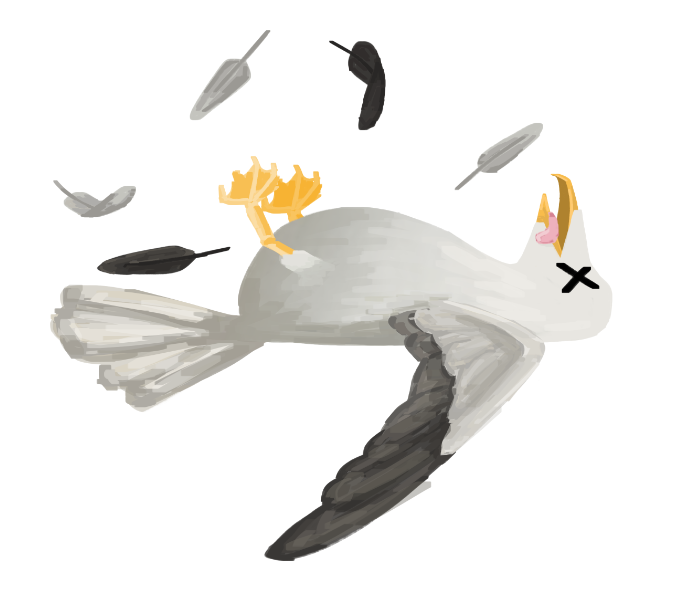
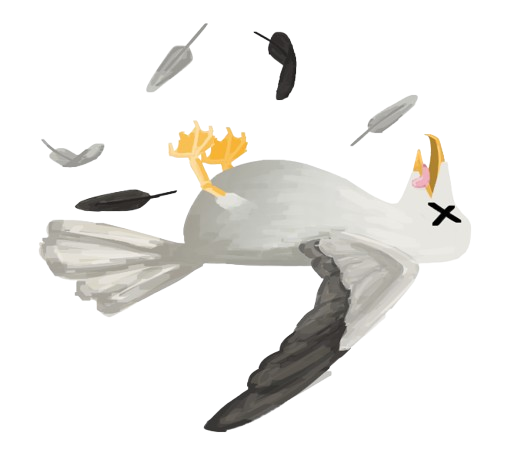
style changes
- transparent image
- white text
- text size

diff --git a/siths-redesign/src/views/404.vue b/siths-redesign/src/views/404.vue
@@ -1,17 +1,17 @@
 <template>
   <div class="bg-transparent">
-    <main class="grid min-h-full place-items-center bg-transparent bg-white py-16">
-      <h1 class="text-4xl font-semibold text-black">404 Page not found</h1>
+    <main class="grid min-h-full place-items-center bg-transparent py-16">
+      <h1 class="text-4xl font-semibold text-white">404 Page not found</h1>
       <div class="text-center">
-        <h2 class="mt-4 text-xl font-bold tracking-tight text-black sm:text-3xl">Uh Oh.....</h2>
+        <h2 class="mt-4 mb-6 text-xl tracking-tight text-white sm:text-3xl">Uh Oh.....</h2>
         <div class="">
-          <img src="@/assets/imgs/404-image.png" alt="404 Image" class="h-[35vh]" />
-          <p class="text-black opacity-50">Drawing by Yifan Zhang '25</p>
+          <img src="@/assets/imgs/404-image.png" alt="404 Image" class="h-[35vh] bg-transparent" />
+          <p class="text-white opacity-50 text-md">Drawing by Yifan Zhang '25</p>
         </div>
       </div>
       <div class="text-center">
-        <p class="mt-6 text-xl leading-7 text-black py-5">
-          This Seagull Took a Wrong Turn—Let’s Find Your Way Back To The Island!
+        <p class="mt-6 text-xl leading-7 text-white py-5">
+          This seagull took a wrong turn—let's find your way back to the island!
         </p>
       </div>
       <RouterLink
